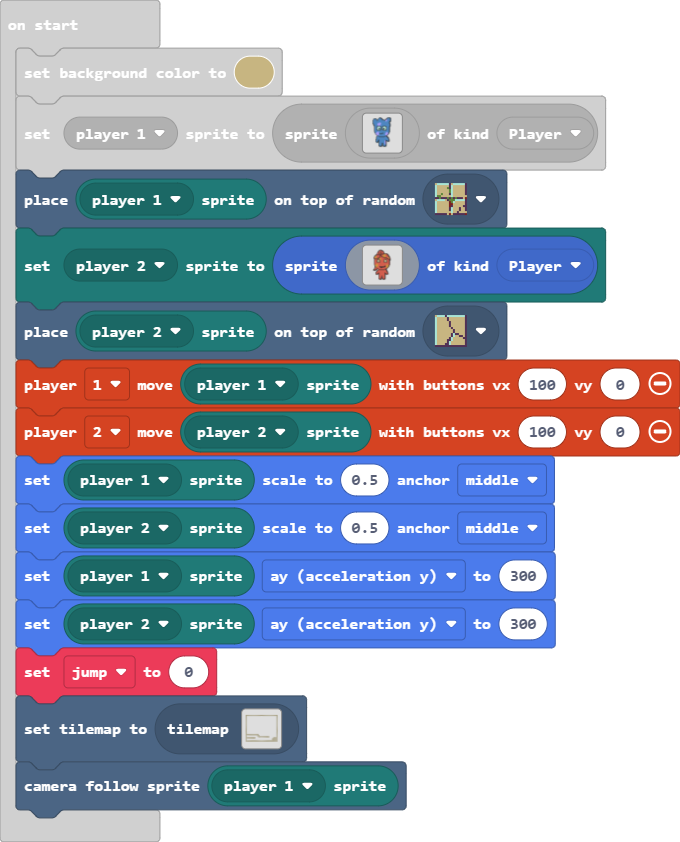
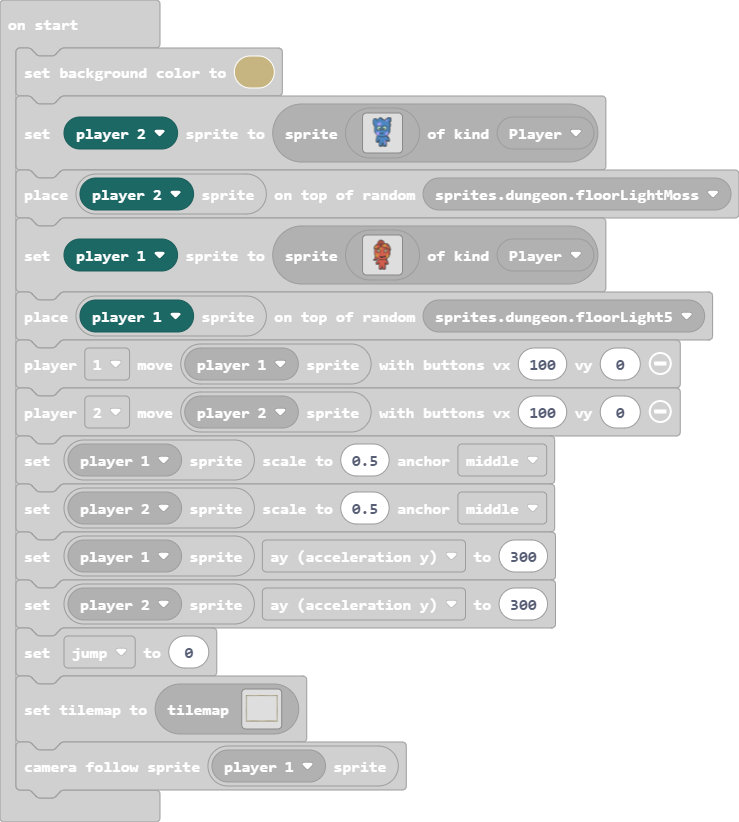
Update main.blocks, main.ts, tilemap.g.jres, tilemap.g.ts

diff --git a/tilemap.g.ts b/tilemap.g.ts
@@ -39,83 +39,33 @@ namespace myTiles {
 ....................
 `, [myTiles.transparency16], TileScale.Sixteen);
             case "level2":
[1 lines of base64/hex data omitted]
-..................................................
-..................................................
-..................................................
-..................................................
-..................................................
-..................................................
-..................................................
-..................................................
-..................................................
-..................................................
-..................................................
-..................................................
-..................................................
-..................................................
-..................................................
-..................................................
-..................................................
-..................................................
-..................................................
-..................................................
-..................................................
-..................................................
-..................................................
-..................................................
-..................................................
-..................................................
-..................................................
-..................................................
-..................................................
-..................................................
-..................................................
-..................................................
-..................................................
-..................................................
-..................................................
-..................................................
-..................................................
-..................................................
-..................................................
-..................................................
-..................................................
-..................................................
-..................................................
-..................................................
-..................................................
-..................................................
-..................................................
-..................................................
-..................................................
-..................................................
-..................................................
-..................................................
-..................................................
-..................................................
-..................................................
-..................................................
-..................................................
-..................................................
-..................................................
-..................................................
-..................................................
-..................................................
-..................................................
-..................................................
-..................................................
-..................................................
-..................................................
-..................................................
-..................................................
-..................................................
-..................................................
-..................................................
-..................................................
-..................................................
-...22222222222222222222222222222222222222222222...
-`, [myTiles.transparency16,sprites.castle.tileGrass2], TileScale.Sixteen);
[1 lines of base64/hex data omitted]
+222222222222222222222222222222
+2............................2
+2............................2
+2............................2
+2............................2
+2............................2
+2............................2
+2............................2
+2............................2
+2............................2
+2............................2
+2............................2
+2............................2
+2............................2
+2............................2
+2............................2
+2............................2
+2............................2
+2............................2
+2............................2
+2............................2
+2............................2
+2............................2
+2............................2
+222222222222222222222222222222
+`, [myTiles.transparency16,sprites.dungeon.floorLight0], TileScale.Sixteen);
         }
         return null;
     })

diff --git a/main.ts b/main.ts
@@ -22,10 +22,10 @@ controller.player2.onButtonEvent(ControllerButton.Up, ControllerButtonEvent.Pres
 })
 let jump = 0
 scene.setBackgroundColor(13)
-mp.setPlayerSprite(mp.playerSelector(mp.PlayerNumber.One), sprites.create(assets.image`myImage1`, SpriteKind.Player))
-tiles.placeOnRandomTile(mp.getPlayerSprite(mp.playerSelector(mp.PlayerNumber.One)), sprites.dungeon.floorLightMoss)
-mp.setPlayerSprite(mp.playerSelector(mp.PlayerNumber.Two), sprites.create(assets.image`myImage0`, SpriteKind.Player))
-tiles.placeOnRandomTile(mp.getPlayerSprite(mp.playerSelector(mp.PlayerNumber.Two)), sprites.dungeon.floorLight5)
+mp.setPlayerSprite(mp.playerSelector(mp.PlayerNumber.Two), sprites.create(assets.image`myImage1`, SpriteKind.Player))
+tiles.placeOnRandomTile(mp.getPlayerSprite(mp.playerSelector(mp.PlayerNumber.Two)), sprites.dungeon.floorLightMoss)
+mp.setPlayerSprite(mp.playerSelector(mp.PlayerNumber.One), sprites.create(assets.image`myImage0`, SpriteKind.Player))
+tiles.placeOnRandomTile(mp.getPlayerSprite(mp.playerSelector(mp.PlayerNumber.One)), sprites.dungeon.floorLight5)
 controller.player1.moveSprite(mp.getPlayerSprite(mp.playerSelector(mp.PlayerNumber.One)), 100, 0)
 controller.player2.moveSprite(mp.getPlayerSprite(mp.playerSelector(mp.PlayerNumber.Two)), 100, 0)
 mp.getPlayerSprite(mp.playerSelector(mp.PlayerNumber.One)).setScale(0.5, ScaleAnchor.Middle)
